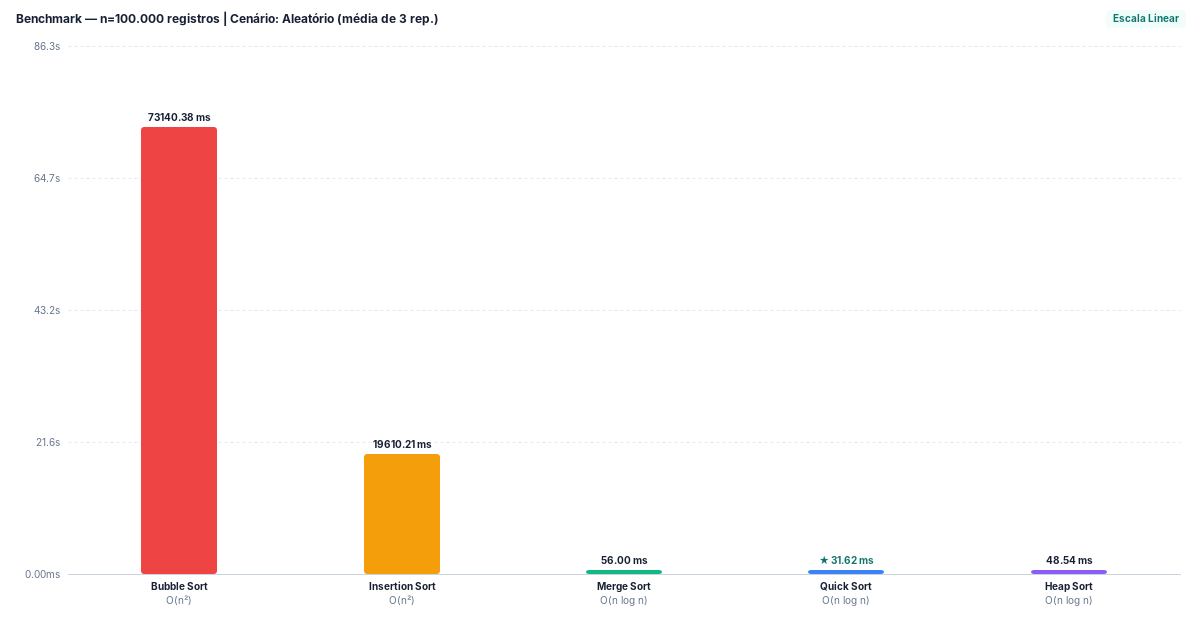
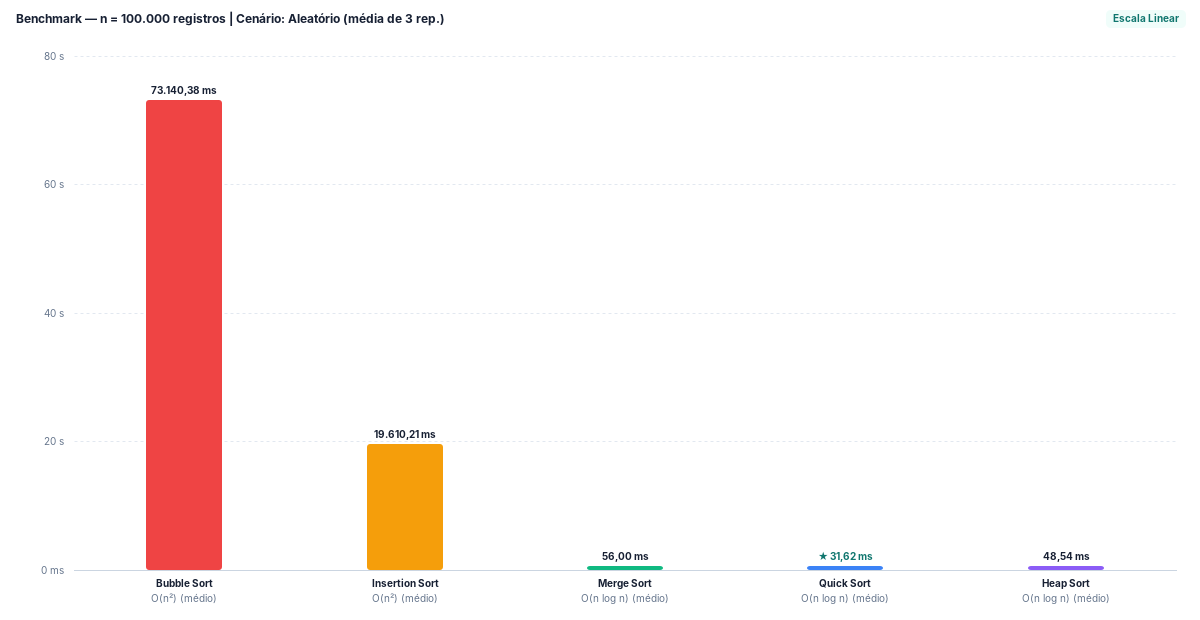
Ajusta escala log10 e padrão pt-BR nos gráficos e alinha documentação ao CSV oficial

diff --git a/src/main/java/com/sortanalyzer/ui/PainelGraficoComparativo.java b/src/main/java/com/sortanalyzer/ui/PainelGraficoComparativo.java
@@ -2,6 +2,7 @@ package com.sortanalyzer.ui;
 
 import com.formdev.flatlaf.fonts.inter.FlatInterFont;
 import com.sortanalyzer.model.ResultadoOrdenacao;
+import com.sortanalyzer.model.TipoCenario;
 
 import javax.imageio.ImageIO;
 import javax.swing.JPanel;
@@ -17,6 +18,8 @@ import java.awt.Stroke;
 import java.awt.image.BufferedImage;
 import java.io.IOException;
 import java.nio.file.Path;
+import java.text.DecimalFormat;
+import java.text.DecimalFormatSymbols;
 import java.util.ArrayList;
 import java.util.List;
 import java.util.Locale;
@@ -27,6 +30,9 @@ import java.util.Locale;
  * tema claro/escuro e exportação direta em PNG de alta resolução.
  */
 public final class PainelGraficoComparativo extends JPanel {
+
+    private static final Locale PT_BR = Locale.forLanguageTag("pt-BR");
+    private static final DecimalFormatSymbols SIMBOLOS_PT_BR = DecimalFormatSymbols.getInstance(PT_BR);
 
     private List<ResultadoOrdenacao> resultados = new ArrayList<>();
     private String titulo = "Comparativo de Tempo de Ordenação (ms)";
@@ -119,47 +125,81 @@ public final class PainelGraficoComparativo extends JPanel {
             return;
         }
 
-        int left = 68;
-        int right = 20;
-        int top = 46;
-        int bottom = 46;
+        boolean compacto = h < 190;
+        int left = 74;
+        int right = 24;
+        int top = compacto ? 42 : (h < 220 ? 48 : 56);
+        int bottom = compacto ? 34 : (h < 220 ? 44 : 50);
         int areaW = Math.max(80, w - left - right);
-        int areaH = Math.max(55, h - top - bottom);
+        int areaH = Math.max(30, h - top - bottom);
 
-        double maxValor = 0.001;
         int idxMaisRapido = -1;
         double menorTempo = Double.MAX_VALUE;
+        double maxTempo = 0.0;
+        double minPos = Double.MAX_VALUE;
+        double maxPos = 0.0;
         for (int i = 0; i < resultados.size(); i++) {
             ResultadoOrdenacao r = resultados.get(i);
-            double v = transformar(r.getTempoMilissegundos());
-            if (v > maxValor) maxValor = v;
+            double ms = Math.max(0.0, r.getTempoMilissegundos());
+            if (ms > maxTempo) maxTempo = ms;
+            double msPos = Math.max(0.01, ms);
+            if (msPos < minPos) minPos = msPos;
+            if (msPos > maxPos) maxPos = msPos;
             if (r.isOrdenadoCorretamente() && r.getTempoMilissegundos() < menorTempo) {
                 menorTempo = r.getTempoMilissegundos();
                 idxMaisRapido = i;
             }
         }
-        maxValor *= 1.18;
 
         // Linhas horizontais de grade tracejadas e eixo Y
         g2.setFont(new Font(FlatInterFont.FAMILY, Font.PLAIN, 10));
         FontMetrics fmY = g2.getFontMetrics();
         Stroke originalStroke = g2.getStroke();
         Stroke dashed = new BasicStroke(1f, BasicStroke.CAP_BUTT, BasicStroke.JOIN_MITER, 4f, new float[]{3f, 3f}, 0f);
-        int divisoes = 4;
-        for (int d = 0; d <= divisoes; d++) {
-            int y = top + areaH - (int) Math.round((areaH * d) / (double) divisoes);
-            if (d > 0) {
-                g2.setStroke(dashed);
-                g2.setColor(corGrade);
-                g2.drawLine(left, y, left + areaW, y);
-                g2.setStroke(originalStroke);
-            }
 
-            double valEixo = (maxValor * d) / divisoes;
-            double msReal = escalaLogaritmica ? (Math.pow(10.0, valEixo) - 1.0) : valEixo;
-            String rotuloY = formatarEixoMs(msReal);
-            g2.setColor(textoSecundario);
-            g2.drawString(rotuloY, left - fmY.stringWidth(rotuloY) - 8, y + 4);
+        int minExp = 0;
+        int maxExp = 1;
+        double tetoLinear = 1.0;
+
+        if (escalaLogaritmica) {
+            minExp = (int) Math.floor(Math.log10(minPos));
+            if (Math.log10(minPos) - minExp < 0.15) {
+                minExp--;
+            }
+            maxExp = (int) Math.ceil(Math.log10(maxPos));
+            if (maxExp <= minExp) {
+                maxExp = minExp + 1;
+            }
+            int span = maxExp - minExp;
+            for (int exp = minExp; exp <= maxExp; exp++) {
+                double frac = (exp - minExp) / (double) span;
+                int y = top + areaH - (int) Math.round(areaH * frac);
+                if (exp > minExp) {
+                    g2.setStroke(dashed);
+                    g2.setColor(corGrade);
+                    g2.drawLine(left, y, left + areaW, y);
+                    g2.setStroke(originalStroke);
+                }
+                String rotuloY = formatarEixoLog(exp);
+                g2.setColor(textoSecundario);
+                g2.drawString(rotuloY, left - fmY.stringWidth(rotuloY) - 10, y + 4);
+            }
+        } else {
+            tetoLinear = calcularTetoLinear(maxTempo);
+            int divisoes = 4;
+            for (int d = 0; d <= divisoes; d++) {
+                int y = top + areaH - (int) Math.round((areaH * d) / (double) divisoes);
+                if (d > 0) {
+                    g2.setStroke(dashed);
+                    g2.setColor(corGrade);
+                    g2.drawLine(left, y, left + areaW, y);
+                    g2.setStroke(originalStroke);
+                }
+                double msReal = (tetoLinear * d) / divisoes;
+                String rotuloY = formatarEixoLinear(msReal);
+                g2.setColor(textoSecundario);
+                g2.drawString(rotuloY, left - fmY.stringWidth(rotuloY) - 10, y + 4);
+            }
         }
 
         // Eixo X base
@@ -173,12 +213,24 @@ public final class PainelGraficoComparativo extends JPanel {
 
         Font fonteValor = new Font(FlatInterFont.FAMILY, Font.BOLD, 10);
         Font fonteLabel = new Font(FlatInterFont.FAMILY, Font.BOLD, 10);
-        Font fonteComp = new Font(FlatInterFont.FAMILY, Font.PLAIN, 10);
+        Font fonteComp = new Font(FlatInterFont.FAMILY, Font.PLAIN, compacto ? 9 : 10);
+        int offsetNome = compacto ? 14 : 17;
+        int offsetComp = compacto ? 27 : 32;
+        DecimalFormat formatoValor = new DecimalFormat("#,##0.00", SIMBOLOS_PT_BR);
+        double baseMinLog = Math.pow(10.0, minExp);
 
         for (int i = 0; i < n; i++) {
             ResultadoOrdenacao r = resultados.get(i);
-            double v = transformar(r.getTempoMilissegundos());
-            int barH = Math.max(4, (int) Math.round((v / maxValor) * areaH));
+            double ms = Math.max(0.0, r.getTempoMilissegundos());
+            double frac;
+            if (escalaLogaritmica) {
+                double logVal = Math.log10(Math.max(baseMinLog, ms));
+                frac = (logVal - minExp) / (double) (maxExp - minExp);
+                frac = Math.max(0.0, Math.min(1.0, frac));
+            } else {
+                frac = Math.max(0.0, Math.min(1.0, ms / tetoLinear));
+            }
+            int barH = Math.max(4, (int) Math.round(frac * areaH));
             int cx = left + (int) Math.round((i + 0.5) * slotW);
             int bx = cx - barW / 2;
             int by = top + areaH - barH;
@@ -188,7 +240,7 @@ public final class PainelGraficoComparativo extends JPanel {
 
             // Rótulo de tempo acima da barra
             g2.setFont(fonteValor);
-            String txtMs = String.format(Locale.US, "%.2f ms", r.getTempoMilissegundos());
+            String txtMs = formatoValor.format(r.getTempoMilissegundos()) + " ms";
             if (i == idxMaisRapido && n > 1) {
                 txtMs = "★ " + txtMs;
             }
@@ -201,29 +253,73 @@ public final class PainelGraficoComparativo extends JPanel {
             String nomeCurto = encurtarNome(r.getNomeAlgoritmo());
             FontMetrics fmLbl = g2.getFontMetrics();
             g2.setColor(textoPrincipal);
-            g2.drawString(nomeCurto, cx - fmLbl.stringWidth(nomeCurto) / 2, top + areaH + 16);
+            g2.drawString(nomeCurto, cx - fmLbl.stringWidth(nomeCurto) / 2, top + areaH + offsetNome);
 
             g2.setFont(fonteComp);
-            String comp = r.getComplexidadeMedia();
+            String comp = formatarComplexidadeEixo(r);
             FontMetrics fmComp = g2.getFontMetrics();
             g2.setColor(textoSecundario);
-            g2.drawString(comp, cx - fmComp.stringWidth(comp) / 2, top + areaH + 30);
+            g2.drawString(comp, cx - fmComp.stringWidth(comp) / 2, top + areaH + offsetComp);
         }
     }
 
-    private double transformar(double ms) {
-        double seguro = Math.max(0.0, ms);
-        return escalaLogaritmica ? Math.log10(seguro + 1.0) : seguro;
+    private double calcularTetoLinear(double maxValor) {
+        double alvo = Math.max(0.01, maxValor * 1.08);
+        double exp = Math.floor(Math.log10(alvo));
+        double base = Math.pow(10.0, exp);
+        double norm = alvo / base;
+        double fator;
+        if (norm <= 1.0) fator = 1.0;
+        else if (norm <= 2.0) fator = 2.0;
+        else if (norm <= 2.5) fator = 2.5;
+        else if (norm <= 4.0) fator = 4.0;
+        else if (norm <= 5.0) fator = 5.0;
+        else if (norm <= 8.0) fator = 8.0;
+        else fator = 10.0;
+        return fator * base;
     }
 
-    private String formatarEixoMs(double ms) {
+    private String formatarEixoLog(int exp) {
+        double val = Math.pow(10.0, exp);
+        if (exp >= 3) {
+            return Math.round(val / 1000.0) + " s";
+        }
+        if (exp >= 0) {
+            return Math.round(val) + " ms";
+        }
+        return String.format(PT_BR, "%.2f ms", val);
+    }
+
+    private String formatarEixoLinear(double ms) {
+        if (ms <= 1e-9) {
+            return "0 ms";
+        }
         if (ms >= 1000.0) {
-            return String.format(Locale.US, "%.1fs", ms / 1000.0);
+            double seg = ms / 1000.0;
+            if (Math.abs(seg - Math.round(seg)) < 1e-6) {
+                return String.format(PT_BR, "%.0f s", seg);
+            }
+            return String.format(PT_BR, "%.1f s", seg);
         }
         if (ms >= 10.0) {
-            return String.format(Locale.US, "%.0fms", ms);
+            return String.format(PT_BR, "%.0f ms", ms);
         }
-        return String.format(Locale.US, "%.2fms", ms);
+        if (ms >= 1.0) {
+            if (Math.abs(ms - Math.round(ms)) < 1e-6) {
+                return String.format(PT_BR, "%.0f ms", ms);
+            }
+            return String.format(PT_BR, "%.1f ms", ms);
+        }
+        return String.format(PT_BR, "%.2f ms", ms);
+    }
+
+    private String formatarComplexidadeEixo(ResultadoOrdenacao r) {
+        String nome = r.getNomeAlgoritmo();
+        if (r.getCenario() == TipoCenario.ORDENADO
+                && (nome.startsWith("Bubble") || nome.startsWith("Insertion"))) {
+            return "O(n) (melhor caso)";
+        }
+        return r.getComplexidadeMedia() + " (médio)";
     }
 
     private String encurtarNome(String nome) {

diff --git a/README.md b/README.md
@@ -2,7 +2,7 @@
 
 ![Java](https://img.shields.io/badge/Java-17%20LTS-0f766e?style=flat-square&logo=openjdk&logoColor=white)
 ![UI](https://img.shields.io/badge/UI-Swing%20%2B%20Java%202D-1d4ed8?style=flat-square)
-![Dependencies](https://img.shields.io/badge/Runtime%20Dependencies-Zero-10b981?style=flat-square)
+![Dependencies](https://img.shields.io/badge/Algoritmos-Zero%20Deps%20(UI%3A%20FlatLaf)-10b981?style=flat-square)
 ![License](https://img.shields.io/badge/License-MIT-475569?style=flat-square)
 
 Aplicação desktop em **Java 17 (Swing + Java 2D)** para **análise comparativa de desempenho** e **visualização animada** de algoritmos clássicos de ordenação.
@@ -15,8 +15,8 @@ Aplicação desktop em **Java 17 (Swing + Java 2D)** para **análise comparativa
 
 - **Análise & Catálogo (Aba 1):**
   - **3 fontes de dados:** geração interna determinística (até 100.000+ imagens com *seed* configurável), importação de arquivos externos `.csv` / `.txt` (detecção automática de catálogo completo ou lista numérica simples + relatório de linhas inválidas) e entrada manual direta.
-  - **Medição rigorosa:** todos os algoritmos ordenam cópias idênticas da mesma base, com cronômetro isolado via `System.nanoTime()` (excluindo leitura, geração, clonagem e exibição) e autoverificação automática.
-  - **Tabelas paginadas Antes e Depois:** inspeção fluida de 100.000+ registros sem congelamento da interface.
+  - **Medição isolada:** todos os algoritmos ordenam cópias idênticas da mesma base, com cronômetro via `System.nanoTime()` exclusivamente ao redor da ordenação (excluindo leitura, geração, clonagem e exibição) e autoverificação automática.
+  - **Tabelas paginadas Antes e Depois:** inspeção de 100.000+ registros sem congelamento da interface.
   - **Gráfico Java 2D nativo:** alternância entre escala linear e logarítmica + exportação em **PNG** de alta resolução e **CSV**.
 - **Visualizador Animado (Aba 2):**
   - **Modo Individual:** reprodução passo a passo (`Play`, `Pausar`, `< Passo`, `Passo >`, `Reiniciar`), controle de velocidade, cenários e contadores ao vivo de comparações e movimentações.
@@ -38,24 +38,26 @@ Aplicação desktop em **Java 17 (Swing + Java 2D)** para **análise comparativa
 
 ---
 
-## Amostra de Resultados (Benchmark CLI — `n = 10.000`, média de 3 execuções)
+## Amostra de Resultados (Benchmark Oficial — `n = 10.000`, média de 3 execuções)
 
-| Algoritmo | Aleatório | Já Ordenado | Inverso | Semi-Ordenado (90%) |
+Valores registrados em [`docs/resultados/benchmark_uniforme.csv`](docs/resultados/benchmark_uniforme.csv) (`seed = 42`, critério `ID da Imagem`, *warm-up* prévio da JVM em Linux `amd64` / OpenJDK 21):
+
+| Algoritmo | Aleatório | Já Ordenado | Inversamente Ordenado | Semi-Ordenado (90%) |
 | :--- | ---: | ---: | ---: | ---: |
-| **Bubble Sort** | 172,09 ms | **0,02 ms** | 112,97 ms | 75,54 ms |
-| **Insertion Sort** | 56,00 ms | **0,03 ms** | 113,41 ms | **6,45 ms** |
-| **Merge Sort** | 1,10 ms | 0,18 ms | 0,39 ms | 0,42 ms |
-| **Quick Sort (Mediana de 3)** | **0,96 ms** | 0,17 ms | **0,17 ms** | **0,28 ms** |
-| **Heap Sort** | 1,34 ms | 0,87 ms | 0,82 ms | 0,87 ms |
+| **Bubble Sort** | 407,04 ms | **0,06 ms** | 340,43 ms | 188,90 ms |
+| **Insertion Sort** | 98,91 ms | 0,08 ms | 199,13 ms | 11,19 ms |
+| **Merge Sort** | 4,43 ms | 0,11 ms | 1,20 ms | 0,99 ms |
+| **Quick Sort (Mediana de 3)** | **2,10 ms** | 0,87 ms | **0,48 ms** | **0,59 ms** |
+| **Heap Sort** | 3,16 ms | 2,02 ms | 1,95 ms | 2,20 ms |
 
-> Os tempos exatos variam conforme o hardware e a JVM utilizada. Para reproduzir no seu computador, utilize a Aba 3 ou o modo `--benchmark` abaixo.
+> Os tempos absolutos variam conforme o hardware e a JVM utilizada. Para reproduzir no seu computador, utilize a Aba 3 ou o modo `--benchmark` abaixo.
 
 ---
 
 ## Como Compilar e Executar
 
 ### Requisitos
-- **JDK 17 ou superior** (não requer bibliotecas externas em runtime).
+- **JDK 17 ou superior** (não requer bibliotecas externas para os algoritmos ou testes; utiliza apenas `FlatLaf` e `flatlaf-fonts-inter` na interface Swing, baixados automaticamente pelo Maven ou pelos scripts de build).
 
 ### Build rápido (apenas JDK — funciona offline)
 

diff --git a/docs/ARCHITECTURE.md b/docs/ARCHITECTURE.md
@@ -58,7 +58,7 @@ com.sortanalyzer
 O conjunto combina técnicas clássicas de complexidade quadrática $O(n^2)$ e log-linear $O(n \log n)$ para evidenciar diferenças de escalabilidade, estabilidade e uso de memória:
 
 1. **`BubbleSort` (Otimizado com parada antecipada):** interrompe a execução se nenhuma troca ocorrer em uma varredura completa, atingindo $O(n)$ em vetores já ordenados.
-2. **`InsertionSort` (Deslocamento):** realiza deslocamento de chave sem trocas sucessivas, sendo estável e altamente eficiente em entradas pequenas ou semi-ordenadas.
+2. **`InsertionSort` (Deslocamento):** realiza deslocamento de chave sem trocas sucessivas, sendo estável e eficiente em entradas pequenas ou semi-ordenadas.
 3. **`MergeSort` (Buffer auxiliar único):** aloca um único vetor auxiliar $O(n)$ no início da chamada, evita intercalação desnecessária quando `dados[meio] <= dados[meio + 1]` e preserva estabilidade.
 4. **`QuickSort` (Mediana de Três + Partição de Hoare + Eliminação de Recursão de Cauda):**
    - A mediana de três evita degradação para $O(n^2)$ em dados ordenados ou inversos.
@@ -68,9 +68,9 @@ O conjunto combina técnicas clássicas de complexidade quadrática $O(n^2)$ e l
 
 ---
 
-## 3. Metodologia de Benchmark (Rigor de Medição)
+## 3. Metodologia de Benchmark (Isolamento da Medição)
 
-- **Mesma base para todos os algoritmos:** em cada teste, gera-se ou carrega-se uma única base original (com `seed` fixa no gerador determinístico). Cada algoritmo recebe uma cópia idêntica via `Arrays.copyOf` **antes** do início do cronômetro.
+- **Mesma base para todos os algoritmos:** em cada teste, o sistema gera ou carrega uma única base original (com `seed` fixa no gerador determinístico). Cada algoritmo recebe uma cópia idêntica via `Arrays.copyOf` **antes** do início do cronômetro.
 - **Cronômetro estritamente isolado:** `System.nanoTime()` envolve **exclusivamente** a invocação `algoritmo.ordenar(copia, comparador)`, excluindo leitura de disco, geração de registros, clonagem, autoverificação e renderização.
 - **Autoverificação pós-ordenação:** `VerificadorOrdenacao` valida tanto a ordenação monotônica quanto a integridade do multiconjunto (nenhum registro perdido ou duplicado).
 - **Warm-up da JVM e Repetições Inteligentes:** na bateria em lote, uma etapa opcional de aquecimento reduz o impacto inicial do compilador JIT; em entradas grandes ($\ge 25.000$), algoritmos $O(n^2)$ podem usar 1 repetição cronometrada (configurável) enquanto $O(n \log n)$ mantém a média de múltiplas rodadas.
